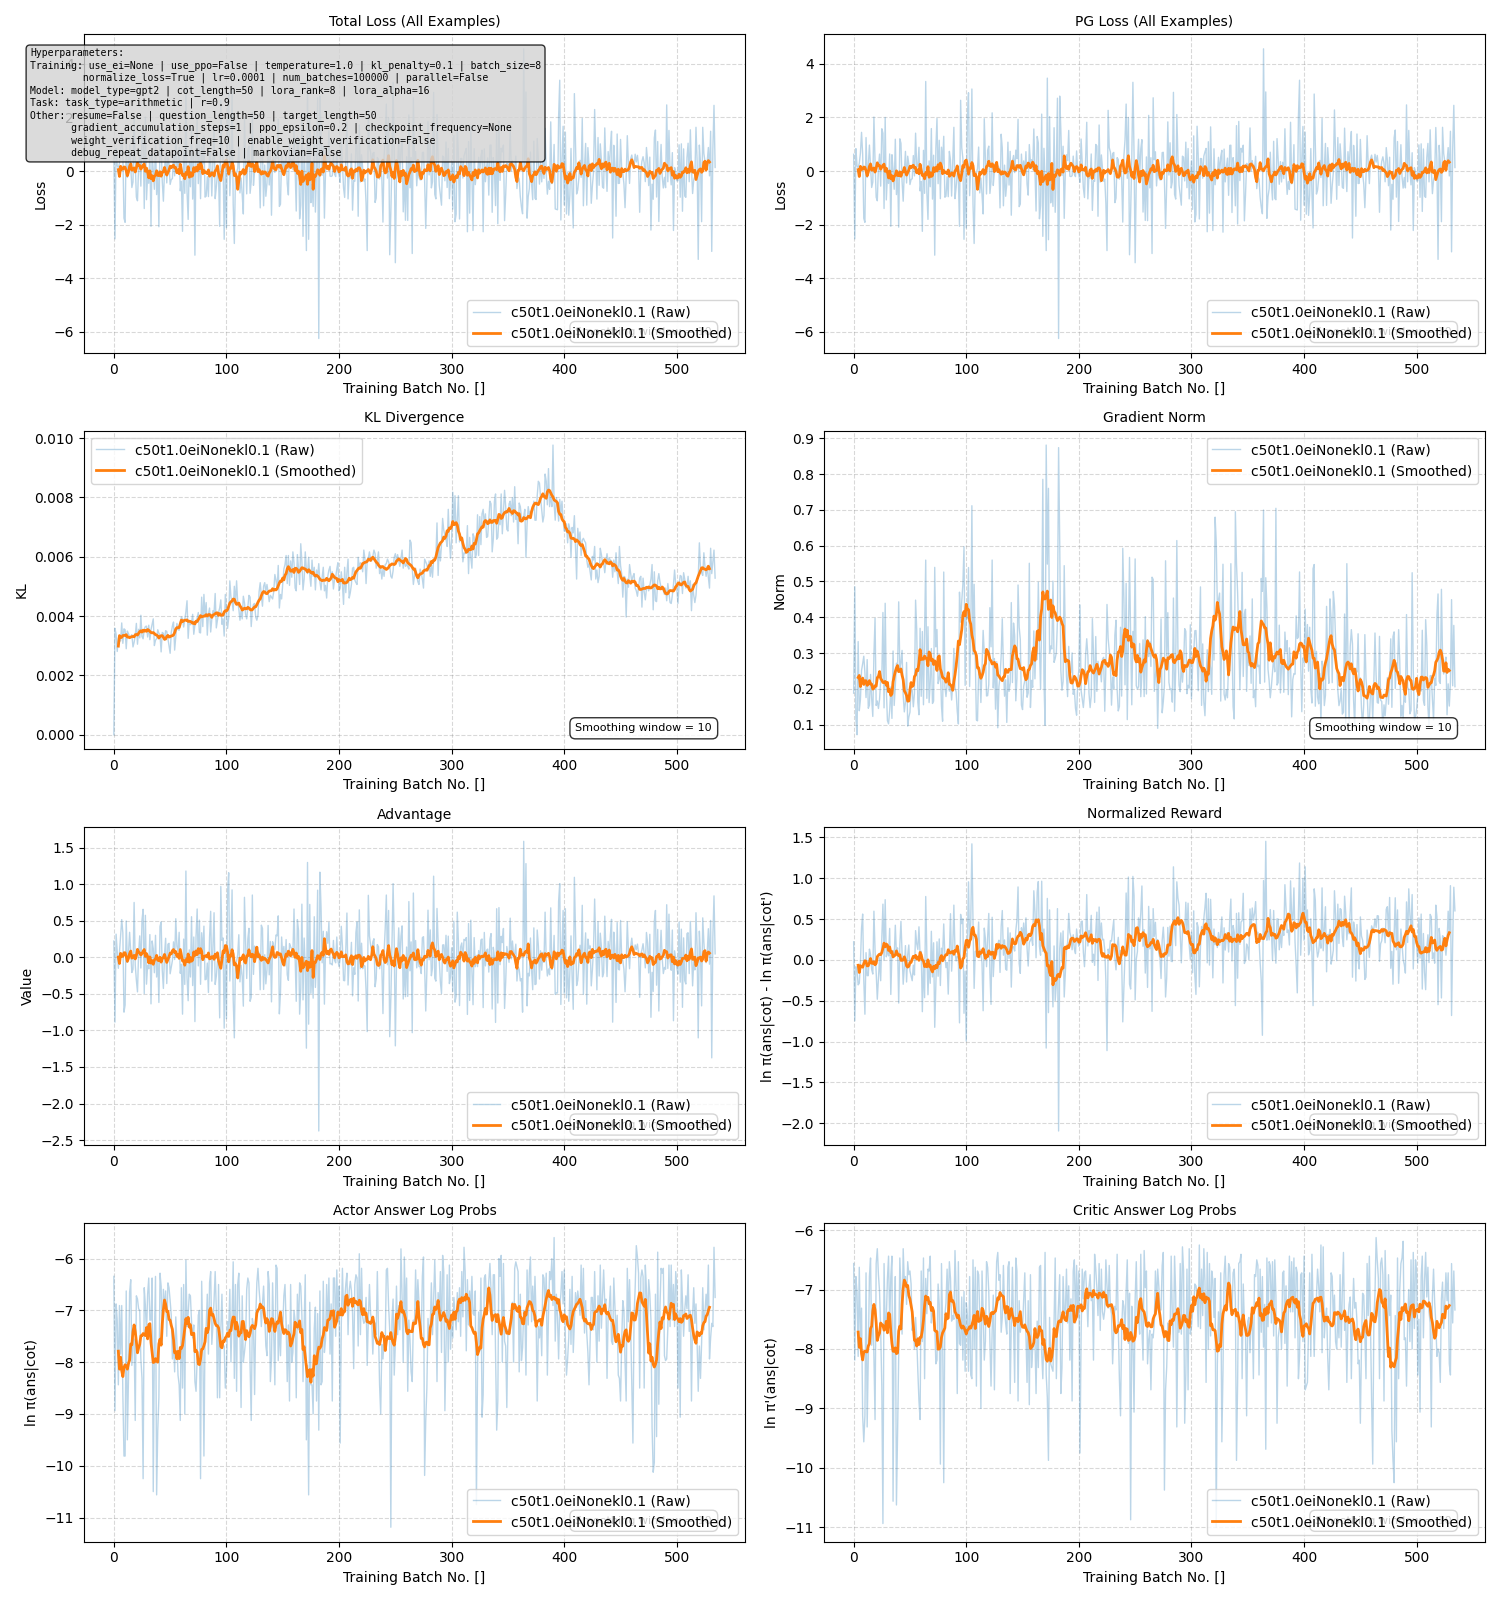
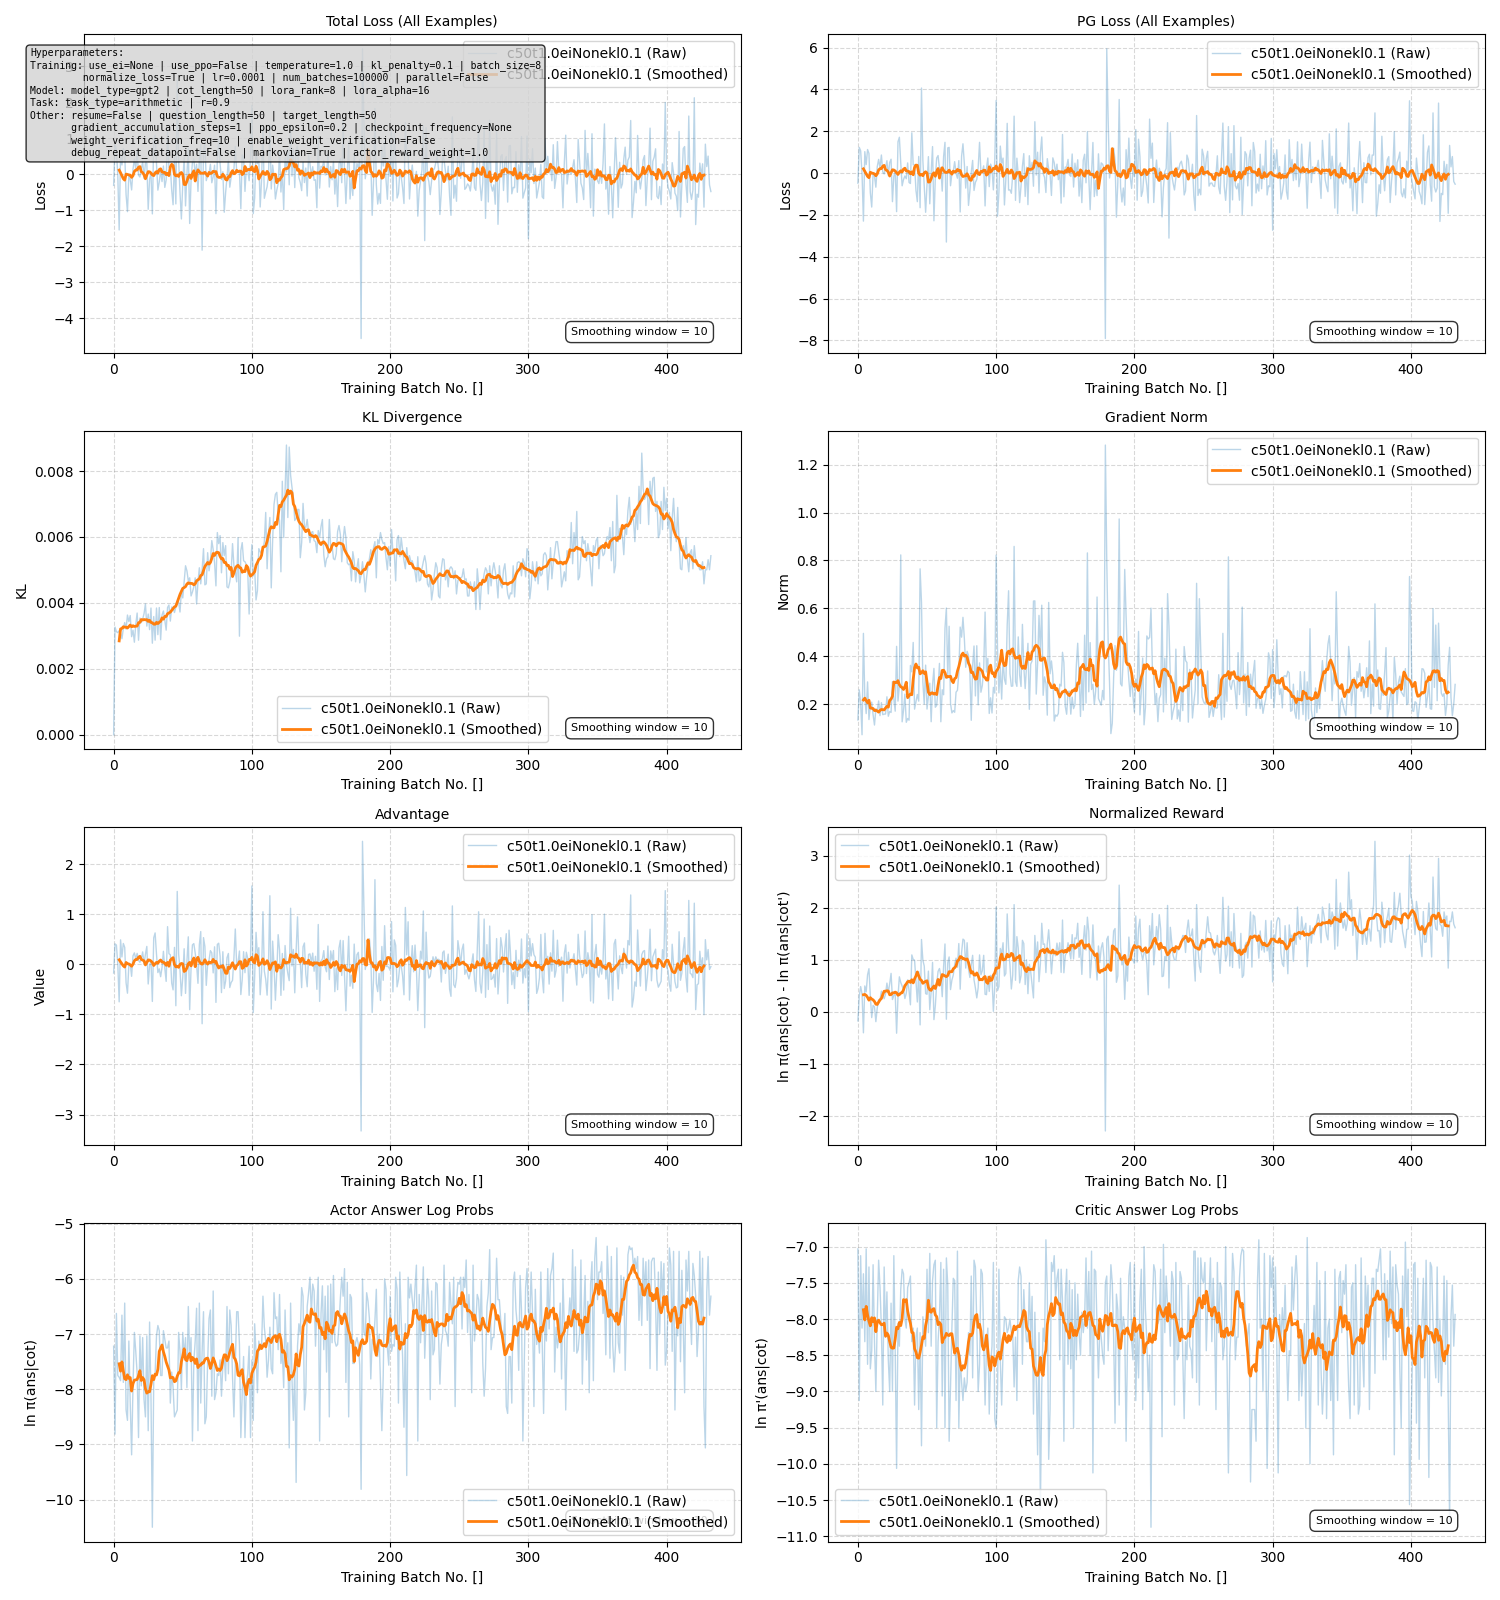
Add gradient flow verification and enhanced logging
- Add check_gradient_flow() function to verify gradients reach all parameters
- Display gradient flow status on first 5 batches when using actor rewards
- Add Actor Reward Metrics section to logs with:
  - Reward Gradient Loss (∇_θ R_θ(τ) term magnitude)
  - PG vs Reward Ratio (relative contribution of terms)
- Confirmed all 96/96 LoRA parameters receive gradients in actor reward mode

diff --git a/src/train.py b/src/train.py
@@ -1215,6 +1215,19 @@ def log_batch_results(
             return "NaN (no active examples)"
         return float(value)
 
+    # Add actor reward specific metrics
+    actor_reward_weight = state.hyperparameters.get("actor_reward_weight", 0.0)
+    actor_reward_metrics = {}
+    if actor_reward_weight > 0.0:
+        if "reward_gradient_losses" in batch_data.metrics:
+            reward_grad_loss = batch_data.metrics["reward_gradient_losses"]
+            actor_reward_metrics = {
+                "Actor Reward Weight": float(actor_reward_weight),
+                "Reward Gradient Loss": safe_float(reward_grad_loss.mean().item()),
+                "First Reward Gradient Loss": safe_float(reward_grad_loss[0].item()),
+                "PG vs Reward Ratio": safe_float(metrics.pg_loss / reward_grad_loss.mean().item()) if reward_grad_loss.mean().item() != 0 else "inf",
+            }
+
     log_entry = {
         "Batch Index": int(state.batch_index),
         "Task Type": state.hyperparameters["task_type"],
@@ -1302,6 +1315,10 @@ def log_batch_results(
             "Markovian": bool(state.hyperparameters.get("markovian", True)),
         },
     }
+    
+    # Add actor reward metrics if using actor rewards
+    if actor_reward_metrics:
+        log_entry["Actor Reward Metrics"] = actor_reward_metrics
     
     # Add active-only metrics if available
     if "active_only_loss" in batch_data.metrics:
@@ -1661,6 +1678,30 @@ def process_batch(state: TrainingState, qa_batch: List[Tuple[str, str]]) -> Batc
 
     return batch_data
 
+def check_gradient_flow(model, loss_type="total"):
+    """Check if gradients are flowing through the model after loss.backward()"""
+    total_params = 0
+    params_with_grad = 0
+    max_grad_norm = 0.0
+    
+    for name, param in model.named_parameters():
+        if param.requires_grad:
+            total_params += 1
+            if param.grad is not None:
+                params_with_grad += 1
+                grad_norm = param.grad.data.norm().item()
+                max_grad_norm = max(max_grad_norm, grad_norm)
+    
+    grad_ratio = params_with_grad / total_params if total_params > 0 else 0
+    
+    if grad_ratio < 1.0:
+        colored_print("Gradient Warning", f"{loss_type}: Only {params_with_grad}/{total_params} ({grad_ratio:.1%}) params have gradients", Colors.YELLOW)
+    else:
+        colored_print("Gradient Check", f"{loss_type}: All {params_with_grad}/{total_params} params have gradients (max: {max_grad_norm:.6f})", Colors.GREEN)
+    
+    return grad_ratio, max_grad_norm
+
+
 def update_model(state: TrainingState, batch_data: BatchData) -> float:
     """Perform model update and return gradient norm"""
     num_active = (
@@ -1702,6 +1743,11 @@ def update_model(state: TrainingState, batch_data: BatchData) -> float:
             )
         ).sum() / (num_active * accumulation_steps)  # Scale by accumulation steps
         loss.backward()
+
+        # Check gradient flow if using actor rewards (only on first few batches to avoid spam)
+        actor_reward_weight = state.hyperparameters.get("actor_reward_weight", 0.0)
+        if actor_reward_weight > 0.0 and state.batch_index < 5:
+            grad_ratio, max_grad = check_gradient_flow(state.actor_model, "Actor Reward Path")
 
         # Increment accumulation step
         state.accumulation_step += 1
